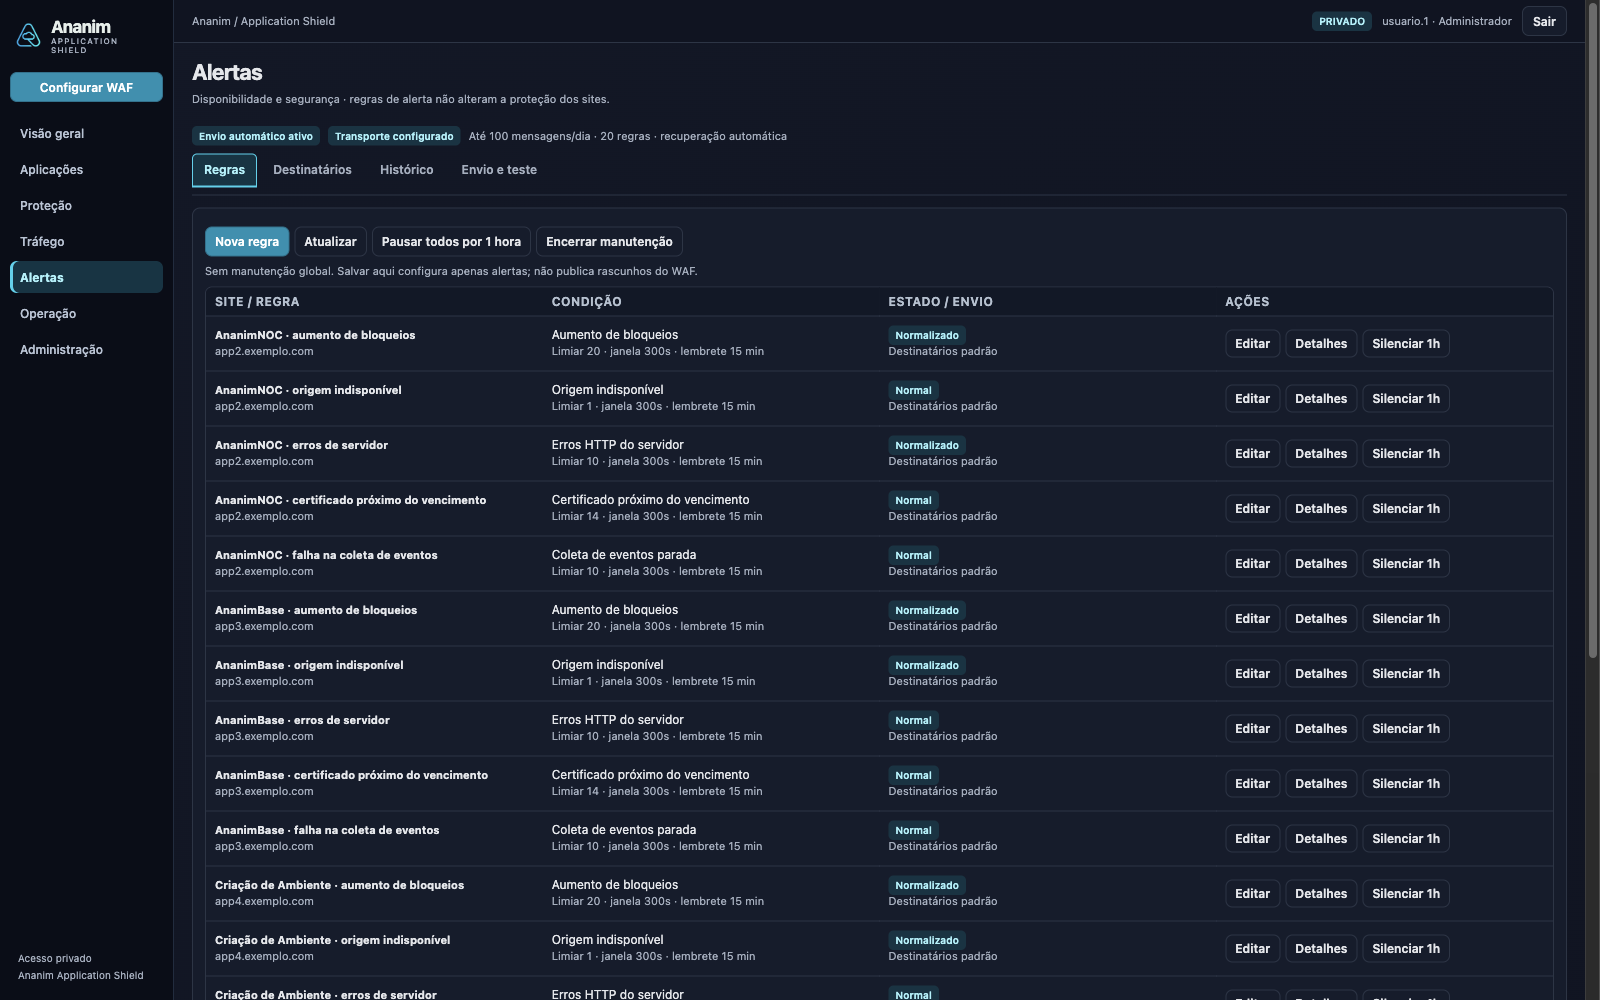
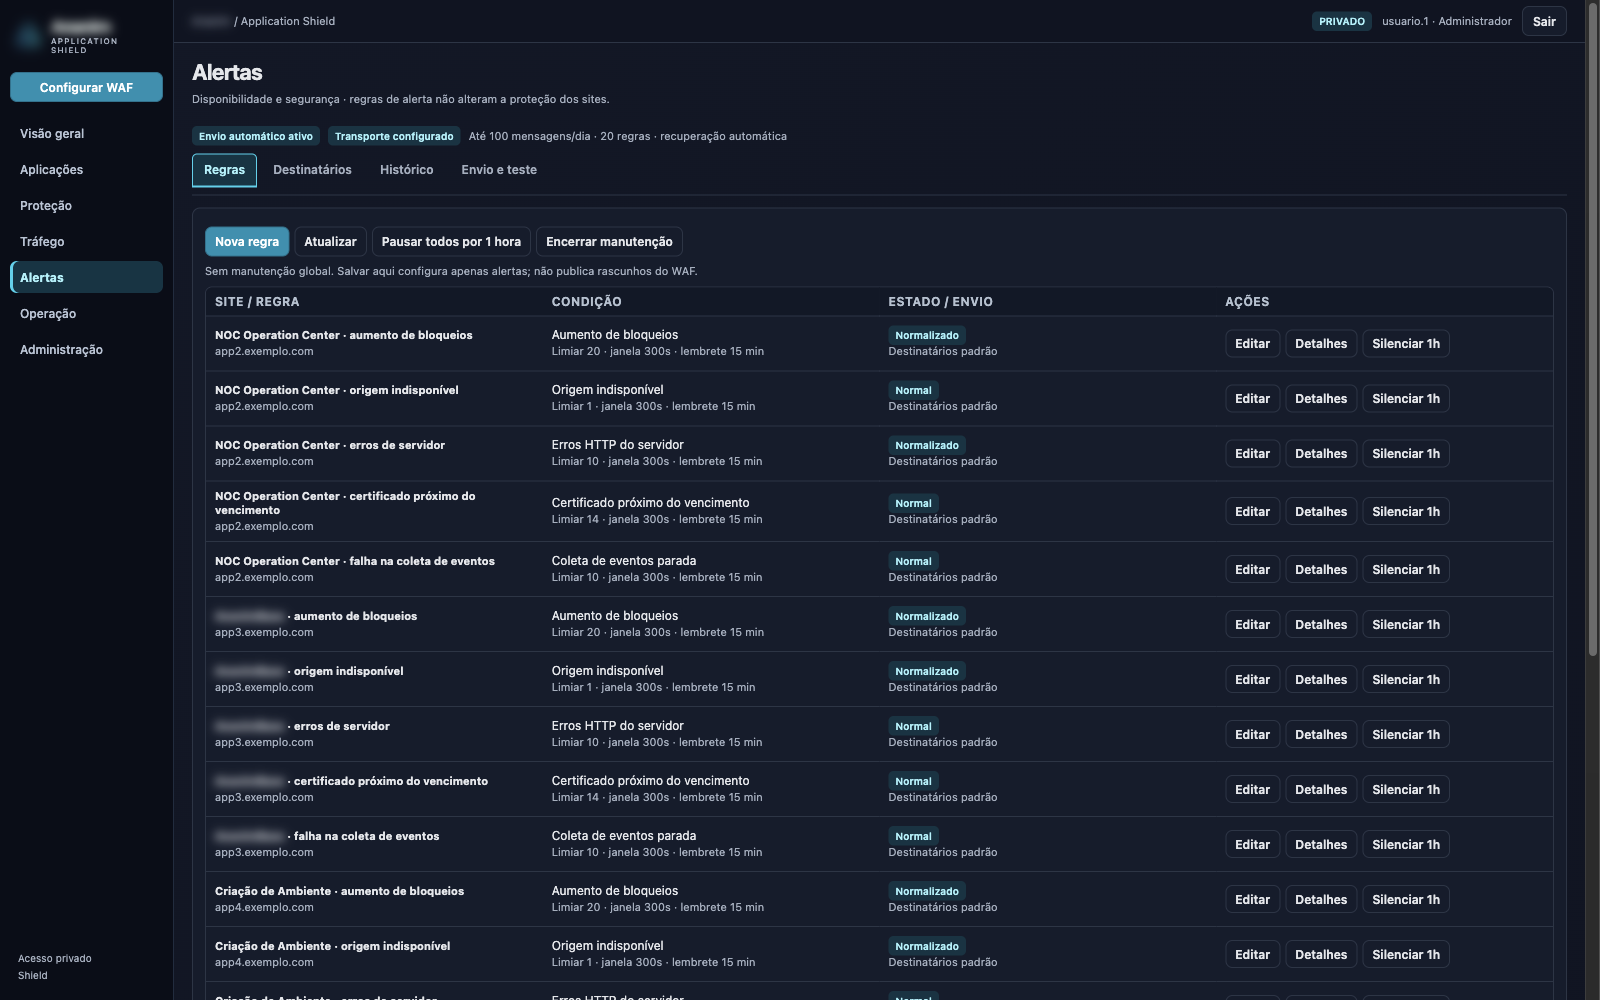
Rename projects (NOC Operation Center, Cloud Report, Shield) and blur account names/brand in screenshots

diff --git a/VISUALS.md b/VISUALS.md
@@ -1,12 +1,12 @@
-# Screenshots — Ananim Shield
+# Screenshots — Shield
 
 [English](#english) · [Português](#português)
 
 ## English
 
-**About the screenshots:** they are real captures of the production interface (November 2026). Client names, hostnames, IP addresses, users, e-mails and domains were replaced automatically at capture time by fictitious ones (e.g. `CLIENTE ALFA`, `app2.exemplo.com`, `usuario.1`, `10.20.x.x`); financial values are scrambled. Layout, features and workflows are exactly what runs in production.
+**About the screenshots:** they are real captures of the production interface (November 2026). Client names, hostnames, IP addresses, users, e-mails and domains were replaced automatically at capture time by fictitious ones (e.g. `CLIENTE ALFA`, `app2.exemplo.com`, `usuario.1`, `10.20.x.x`); cloud account names and the operator's brand are blurred; financial values are scrambled. Layout, features and workflows are exactly what runs in production.
 
-How anonymization works: a script injected into the browser rewrites every visible text node, input, tooltip, SVG label and canvas chart label before the screenshot is taken, using a fixed dictionary of real → fictitious names plus pattern rules for IPs, e-mails, domains, user names and currency values. Each image was then reviewed manually and checked by a leak scanner before publishing. Because values are scrambled, totals on financial screens are not meant to add up.
+How anonymization works: a script injected into the browser rewrites every visible text node, input, tooltip, SVG label and canvas chart label before the screenshot is taken, using a fixed dictionary of real → fictitious names plus pattern rules for IPs, e-mails, domains, user names and currency values; cloud account names and the operator's brand are blurred in place. Each image was then reviewed manually and checked by a leak scanner before publishing. Because values are scrambled, totals on financial screens are not meant to add up.
 
 `overview.png` is the main screen of the product, captured the same way.
 
@@ -25,9 +25,9 @@ How anonymization works: a script injected into the browser rewrites every visib
 
 ## Português
 
-**Sobre as imagens:** são capturas reais da interface em produção (novembro/2026). Nomes de clientes, hostnames, IPs, usuários, e-mails e domínios foram substituídos automaticamente no momento da captura por nomes fictícios (ex.: `CLIENTE ALFA`, `app2.exemplo.com`, `usuario.1`, `10.20.x.x`); valores financeiros estão embaralhados. Layout, funcionalidades e fluxos são exatamente os que rodam em produção.
+**Sobre as imagens:** são capturas reais da interface em produção (novembro/2026). Nomes de clientes, hostnames, IPs, usuários, e-mails e domínios foram substituídos automaticamente no momento da captura por nomes fictícios (ex.: `CLIENTE ALFA`, `app2.exemplo.com`, `usuario.1`, `10.20.x.x`); nomes das contas cloud e a marca da operadora aparecem borrados; valores financeiros estão embaralhados. Layout, funcionalidades e fluxos são exatamente os que rodam em produção.
 
-Como a anonimização funciona: um script injetado no navegador reescreve todo texto visível, campos, tooltips, rótulos SVG e rótulos de gráficos em canvas antes da captura, usando um dicionário fixo de nomes reais → fictícios e regras para IPs, e-mails, domínios, usuários e valores monetários. Cada imagem foi revisada manualmente e passou por um verificador de vazamento antes da publicação. Como os valores são embaralhados, os totais das telas financeiras não precisam fechar.
+Como a anonimização funciona: um script injetado no navegador reescreve todo texto visível, campos, tooltips, rótulos SVG e rótulos de gráficos em canvas antes da captura, usando um dicionário fixo de nomes reais → fictícios e regras para IPs, e-mails, domínios, usuários e valores monetários; nomes das contas cloud e a marca da operadora são borrados no lugar. Cada imagem foi revisada manualmente e passou por um verificador de vazamento antes da publicação. Como os valores são embaralhados, os totais das telas financeiras não precisam fechar.
 
 `overview.png` é a tela principal do produto, capturada da mesma forma.
 

diff --git a/README.pt-BR.md b/README.pt-BR.md
@@ -1,4 +1,4 @@
-# Ananim Shield
+# Shield
 
 **Segurança de Aplicações e WAF** — proteção de aplicações com mudanças controladas.
 
@@ -6,9 +6,9 @@
 
 Camada de proteção para aplicações HTTP/HTTPS com painel de gestão, políticas, eventos, alertas e um fluxo controlado de publicação. Combina um motor WAF reconhecido (Nginx + ModSecurity + OWASP CRS) com componentes de gestão e operação construídos para organizar regras, explicar decisões e reverter mudanças com segurança.
 
-![Ananim Shield — visão geral (interface real, dados anonimizados)](overview.png)
+![Shield — visão geral (interface real, dados anonimizados)](overview.png)
 
-> **Portfólio de Gustavo Souza.** **Sobre as imagens:** são capturas reais da interface em produção (novembro/2026). Nomes de clientes, hostnames, IPs, usuários, e-mails e domínios foram substituídos automaticamente no momento da captura por nomes fictícios (ex.: `CLIENTE ALFA`, `app2.exemplo.com`, `usuario.1`, `10.20.x.x`); valores financeiros estão embaralhados. Layout, funcionalidades e fluxos são exatamente os que rodam em produção.
+> **Portfólio de Gustavo Souza.** **Sobre as imagens:** são capturas reais da interface em produção (novembro/2026). Nomes de clientes, hostnames, IPs, usuários, e-mails e domínios foram substituídos automaticamente no momento da captura por nomes fictícios (ex.: `CLIENTE ALFA`, `app2.exemplo.com`, `usuario.1`, `10.20.x.x`); nomes das contas cloud e a marca da operadora aparecem borrados; valores financeiros estão embaralhados. Layout, funcionalidades e fluxos são exatamente os que rodam em produção.
 
 ## O problema
 
@@ -31,7 +31,7 @@ Ativar regras de proteção sem contexto pode bloquear tráfego legítimo. O des
 
 ## White-label e pronto para SaaS
 
-O Ananim Shield foi construído para ser **white-label**. Nome, logo, cores, papel timbrado dos relatórios, lista de clientes, contas cloud e integrações são configuração — não estão fixos no código. A mesma plataforma pode ser:
+O Shield foi construído para ser **white-label**. Nome, logo, cores, papel timbrado dos relatórios, lista de clientes, contas cloud e integrações são configuração — não estão fixos no código. A mesma plataforma pode ser:
 
 - **implantada para qualquer empresa** — MSP, revenda de cloud, provedor de serviços gerenciados ou time interno de TI;
 - **operada como single-tenant** (uma empresa, na própria infraestrutura) ou **multi-tenant**, com cada cliente isolado por escopo validado no backend;
@@ -164,8 +164,8 @@ O código-fonte é mantido em repositório privado. Este repositório é um port
 
 ## Projetos relacionados
 
-- [Ananim NOC](https://github.com/gsouzacloud/ananim-noc-portfolio) — operação, correlação, usuários e segurança
-- [AnanimCloudReport](https://github.com/gsouzacloud/ananim-cloud-report-portfolio) — FinOps e governança cloud
-- [Ananim Shield](https://github.com/gsouzacloud/ananim-application-shield-portfolio) — WAF e segurança de aplicações
+- [NOC Operation Center](https://github.com/gsouzacloud/noc-operation-center-portfolio) — operação, correlação, usuários e segurança
+- [Cloud Report](https://github.com/gsouzacloud/cloud-report-portfolio) — FinOps e governança cloud
+- [Shield](https://github.com/gsouzacloud/shield-portfolio) — WAF e segurança de aplicações
 
 [Gustavo Souza no GitHub](https://github.com/gsouzacloud) · Documentação atualizada em 18/11/2026.

diff --git a/README.md b/README.md
@@ -1,4 +1,4 @@
-# Ananim Shield
+# Shield
 
 **Application Security & WAF** — application protection with controlled changes.
 
@@ -6,9 +6,9 @@
 
 A protection layer for HTTP/HTTPS applications with a management console, policies, events, alerts and a controlled publishing flow. It combines a recognized WAF engine (Nginx + ModSecurity + OWASP CRS) with management and operations components built to organize rules, explain decisions and roll back changes safely.
 
-![Ananim Shield — overview (real interface, anonymized data)](overview.png)
+![Shield — overview (real interface, anonymized data)](overview.png)
 
-> **Portfolio of Gustavo Souza.** **About the screenshots:** they are real captures of the production interface (November 2026). Client names, hostnames, IP addresses, users, e-mails and domains were replaced automatically at capture time by fictitious ones (e.g. `CLIENTE ALFA`, `app2.exemplo.com`, `usuario.1`, `10.20.x.x`); financial values are scrambled. Layout, features and workflows are exactly what runs in production.
+> **Portfolio of Gustavo Souza.** **About the screenshots:** they are real captures of the production interface (November 2026). Client names, hostnames, IP addresses, users, e-mails and domains were replaced automatically at capture time by fictitious ones (e.g. `CLIENTE ALFA`, `app2.exemplo.com`, `usuario.1`, `10.20.x.x`); cloud account names and the operator's brand are blurred; financial values are scrambled. Layout, features and workflows are exactly what runs in production.
 
 ## The problem
 
@@ -31,7 +31,7 @@ Turning on protection rules without context can block legitimate traffic. The ch
 
 ## White-label and SaaS-ready
 
-Ananim Shield was built to be **white-label**. Brand name, logo, colors, report letterhead, tenant list, cloud accounts and integrations are configuration — not hard-coded. The same platform can be:
+Shield was built to be **white-label**. Brand name, logo, colors, report letterhead, tenant list, cloud accounts and integrations are configuration — not hard-coded. The same platform can be:
 
 - **deployed for any company** — an MSP, a cloud reseller, a managed-services provider or an internal IT team;
 - **run single-tenant** (one company, on its own infrastructure) or **multi-tenant**, with every tenant isolated by scope validated in the backend;
@@ -164,8 +164,8 @@ The source code is kept in a private repository. This repository is a portfolio:
 
 ## Related projects
 
-- [Ananim NOC](https://github.com/gsouzacloud/ananim-noc-portfolio) — operations, correlation, users & security
-- [AnanimCloudReport](https://github.com/gsouzacloud/ananim-cloud-report-portfolio) — cloud FinOps & governance
-- [Ananim Shield](https://github.com/gsouzacloud/ananim-application-shield-portfolio) — WAF & application security
+- [NOC Operation Center](https://github.com/gsouzacloud/noc-operation-center-portfolio) — operations, correlation, users & security
+- [Cloud Report](https://github.com/gsouzacloud/cloud-report-portfolio) — cloud FinOps & governance
+- [Shield](https://github.com/gsouzacloud/shield-portfolio) — WAF & application security
 
 [Gustavo Souza on GitHub](https://github.com/gsouzacloud) · Documentation updated November 18, 2026.

diff --git a/ARCHITECTURE.md b/ARCHITECTURE.md
@@ -1,4 +1,4 @@
-# Architecture — Ananim Shield
+# Architecture — Shield
 
 [English](#english) · [Português](#português)
 

diff --git a/ROADMAP.md b/ROADMAP.md
@@ -1,4 +1,4 @@
-# Roadmap — Ananim Shield
+# Roadmap — Shield
 
 [English](#english) · [Português](#português)
 
